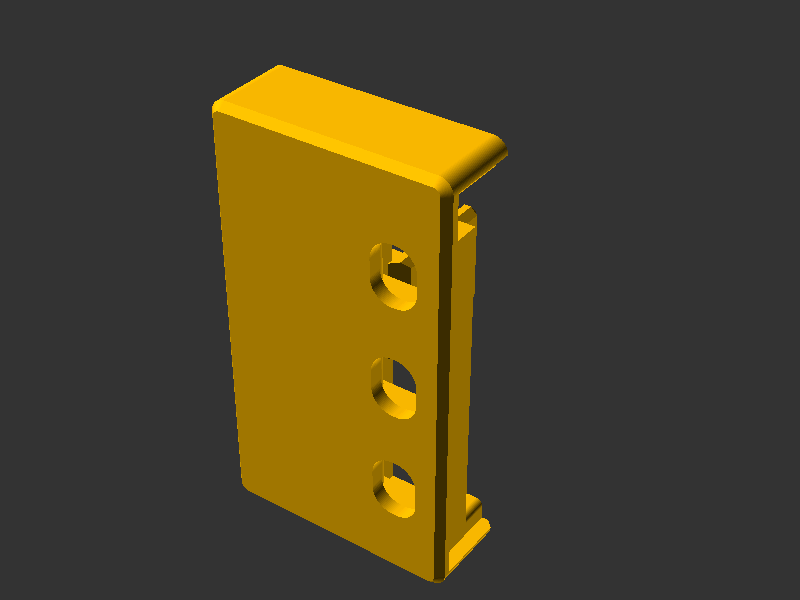
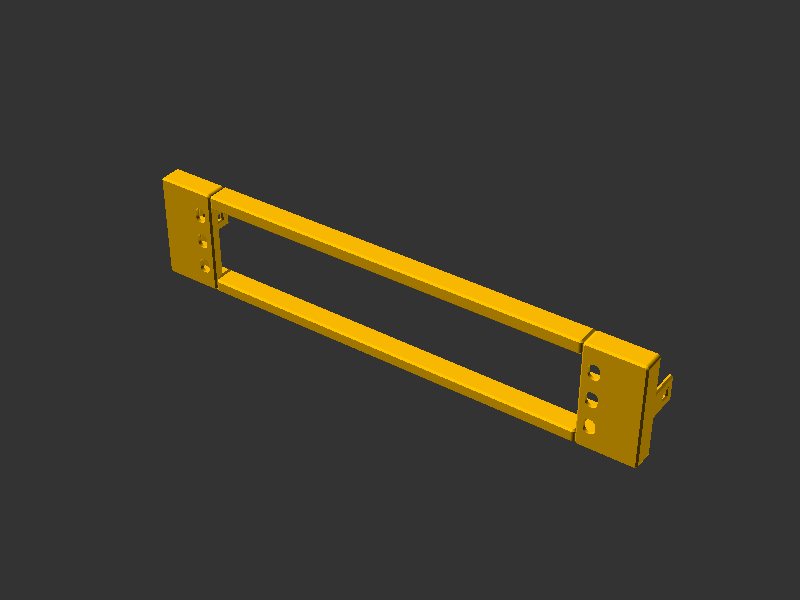
feat(rackmount_adapter): add end covers with a shared end cover hook

Changed region(s): [[0.1875, 0.09, 0.8438, 0.99]]

diff --git a/models/rackmount_adapter/README.md b/models/rackmount_adapter/README.md
@@ -14,6 +14,8 @@ From the HomeRacker side to the rack side, each adapter has:
 - **Rack rail**: square cage nut holes for M6 cage nuts, three per rack unit, placed per EIA-310 (see [rack standards](rack-standards.md)).
 - **End cover docks**: pockets at the top and bottom for end covers that close off the adapter.
 
+Two **end covers** close the rack's top and bottom between the left and right adapter. Each has a tongue at both ends that slides into the docks; the top cover is taller by the gap fill above the top rack unit.
+
 It succeeds the [10"](https://makerworld.com/en/models/1353730-modular-10-server-rack#profileId-1396918) and [19"](https://makerworld.com/en/models/1503491-modular-19-server-rack#profileId-1573137) adapters on MakerWorld.
 
 ## 🤔 Why
@@ -46,9 +48,10 @@ Open `parts/rackmount_adapter.scad` in OpenSCAD and use the **Customizer** panel
 
 | Parameter | Default | Range | Description |
 |-----------|---------|-------|-------------|
+| `part` | assembly | assembly, adapter, end cover top, end cover bottom | The assembled rack front, or a single part to print |
 | `inches` | 10 | 2-20 | Rack width in full inches |
 | `height_units` | 1 | 1-10 | Height in rack units |
-| `side` | left | left, right | Rack side the adapter mounts on |
+| `side` | left | left, right | Rack side of a single adapter |
 | `debug_colors` | false | bool | Color-code geometry for debugging |
 | `disable_chamfer` | false | bool | Remove chamfers |
 | `debug_anchors` | false | bool | Show the BOSL2 anchors |
@@ -58,22 +61,38 @@ Open `parts/rackmount_adapter.scad` in OpenSCAD and use the **Customizer** panel
 - 🔩 Insert the cage nuts before the adapter goes onto the rack. The gap fill next to the rack rail is narrowest on 10" racks (0.5 mm per side, with 7" and 20" close behind), which leaves little room to reach a cage nut once mounted. Any adapter comes off on its own, without taking the rack apart.
 - 🔩 Tested with [deleyCON M6 cage nuts](https://www.amazon.de/s?k=deleyCON+M6+K%C3%A4figmuttern) (relaxed hook span 13.58 mm). Cage nuts aren't standardized beyond the 9.5 mm square hole: pick M6 nuts rated for about 2 mm panel thickness. Nuts made for thin panels (under about 1.8 mm, like [RS type N](https://uk.rs-online.com/web/p/cage-nuts/2662268)) may not seat.
 
+**Frame width**: the front horizontal supports need this many HomeRacker units for each rack width (`get_hr_units_by_inches()`):
+
+| Rack | Units | Rack | Units | Rack | Units |
+|---|---|---|---|---|---|
+| 2" | 4 | 9" | 16 | 16" | 28 |
+| 3" | 6 | 10" | 17 | 17" | 29 |
+| 4" | 7 | 11" | 19 | 18" | 31 |
+| 5" | 9 | 12" | 21 | 19" | 33 |
+| 6" | 11 | 13" | 23 | 20" | 34 |
+| 7" | 12 | 14" | 24 | | |
+| 8" | 14 | 15" | 26 | | |
+
 **Library usage**, include in your own model:
 
 ```scad
-include <../rackmount_adapter/lib/rackmount_adapter.scad>
+include <../rackmount_adapter/lib/end_cover.scad>
 
-rackmount_adapter(rackwidth = 10, height_units = 2, side = RIGHT)
-  attach("end_cover_top", FRONT) my_end_cover();
+// left adapter, both end covers, the right adapter on the top cover's other end
+rackmount_adapter(rackwidth = 10, height_units = 2) {
+  attach("end_cover_top", "end_cover_left") end_cover(rackwidth = 10, height_units = 2, type = END_COVER_TOP)
+    attach("end_cover_right", "end_cover_top") rackmount_adapter(rackwidth = 10, height_units = 2, side = RIGHT);
+  attach("end_cover_bottom", "end_cover_left") end_cover(rackwidth = 10, height_units = 2, type = END_COVER_BOTTOM);
+}
 ```
 
-Implemented as a [BOSL2 attachable](https://github.com/BelfrySCAD/BOSL2/wiki/Tutorial-Attachments) sized to the whole adapter. The named anchors `"end_cover_top"` and `"end_cover_bottom"` sit on each dock's front wall and point back through the pocket.
+Both modules are [BOSL2 attachables](https://github.com/BelfrySCAD/BOSL2/wiki/Tutorial-Attachments). The adapter's `"end_cover_top"` and `"end_cover_bottom"` anchors sit on each dock's front wall; the cover's `"end_cover_left"` and `"end_cover_right"` sit on the matching spot of its tongues. `end_cover_hook` builds the shared tongue shape: the dock subtracts it, the cover adds it with clearance.
 
 ## 📸 Catalog
 
 | Part | Preview |
 |------|---------|
-| Rackmount Adapter | ![Rackmount Adapter](parts/renders/rackmount_adapter.png) |
+| Assembly: two adapters with top and bottom end covers | ![Rackmount Adapter](parts/renders/rackmount_adapter.png) |
 
 To generate or refresh previews:
 

diff --git a/.claude/rules/openscad.md b/.claude/rules/openscad.md
@@ -12,7 +12,9 @@ paths: ["**/*.scad"]
 
 ## Composing Geometry (attach/align vs union/diff)
 
-- **Position with anchors, not offsets.** Prefer `attach`/`align`/`position` + `left`/`right`/`fwd`/`back` over raw `translate`/`rotate` with hand-computed centre math. `union()` is for merging separate solids, never for positioning.
+- **Build a part as a parent with attached children.** The main body is the parent; every other piece hangs off it (or off a sibling) via `attach`/`align`/`position`. No `union()`, `difference()` or `intersection()` wrapped around siblings: children of an attachable already union, and cutters go into `diff()` with tags. Plain CSG belongs only inside low-level primitives such as `kl_cuboid`.
+- **Position with anchors, not offsets.** No `move()`/`translate()` with hand-computed centre coordinates. A bare `move()` is fine only to place geometry inside its own `attachable()` box; any other offset is a named directional shift (`up`, `left`, `move(hook_side * x)`) after an `attach`/`align`.
+- **`align()` offsets act on the whole alignment direction.** `inset` does nothing with `inside = true`, and `shiftout` or an `overlap` on an edge or corner anchor moves along the normalized diagonal (0.707 per axis on an edge). For an offset on one axis, anchor on a single face (`align(-hook_side, BACK, inside = true, overlap = -x)`) or add a directional shift.
 - **`diff()` is tag-based.** Kept (untagged) geometry and `remove`-tagged cutters coexist in one `diff()`; cutters only subtract where they overlap. A part welded on after the bores belongs *inside* the same `diff()` as an untagged child, do **not** wrap it in `union()` to "shield" it.
 - **Isolate a child's own `diff()`/`edge_mask` with `tag_scope()`.** A nested chamfer (edge_mask applies a `remove` tag) leaks into an enclosing `diff()` and gets cancelled. Wrap the module's `attachable()` in `tag_scope()`, as `sleeve()` does.
 - **Tag masks explicitly under a tagged parent.** `edge_mask`/`corner_mask` only default to `remove` when no tag is inherited, so under `tag("keep")` they turn into solid geometry. Write `tag("remove") edge_mask(...)`.

diff --git a/AGENTS.md b/AGENTS.md
@@ -78,7 +78,7 @@ Before terminal operations, consider these steps (use best judgement):
 Each file below carries `paths:` frontmatter and loads automatically when you touch a matching file.
 
 - Documentation: stick to the house-style skill
-- OpenSCAD: [openscad.md](.claude/rules/openscad.md)
+- OpenSCAD: [openscad.md](.claude/rules/openscad.md). Compose parts as BOSL2 parent/child attachments with `diff()` tags; no `union()`/`difference()` wrappers or computed `move()` coordinates.
 - Python: [python.md](.claude/rules/python.md)
 - Shell and GitHub Actions: [shell.md](.claude/rules/shell.md)
 - Renovate: [renovate.md](.claude/rules/renovate.md)
